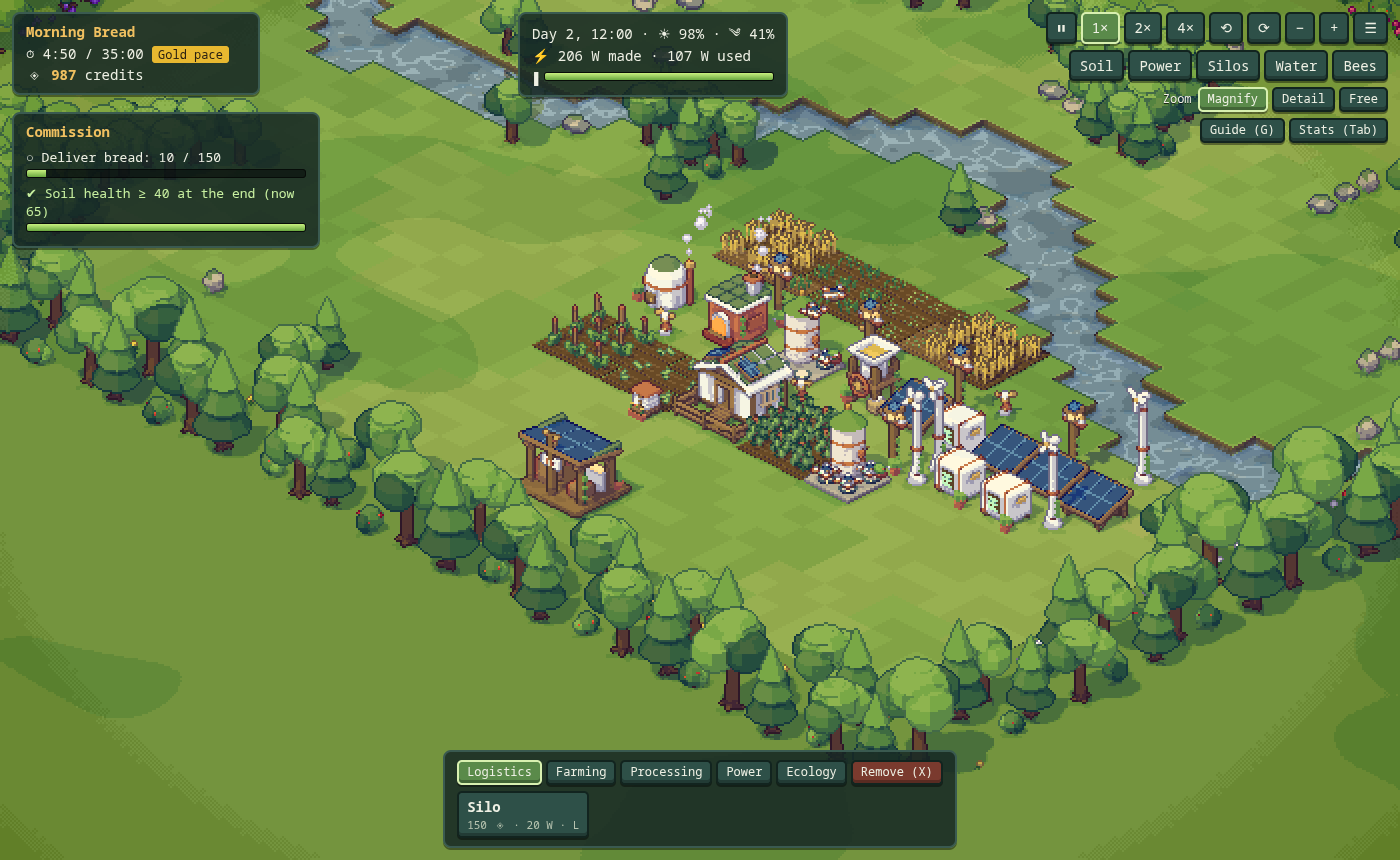
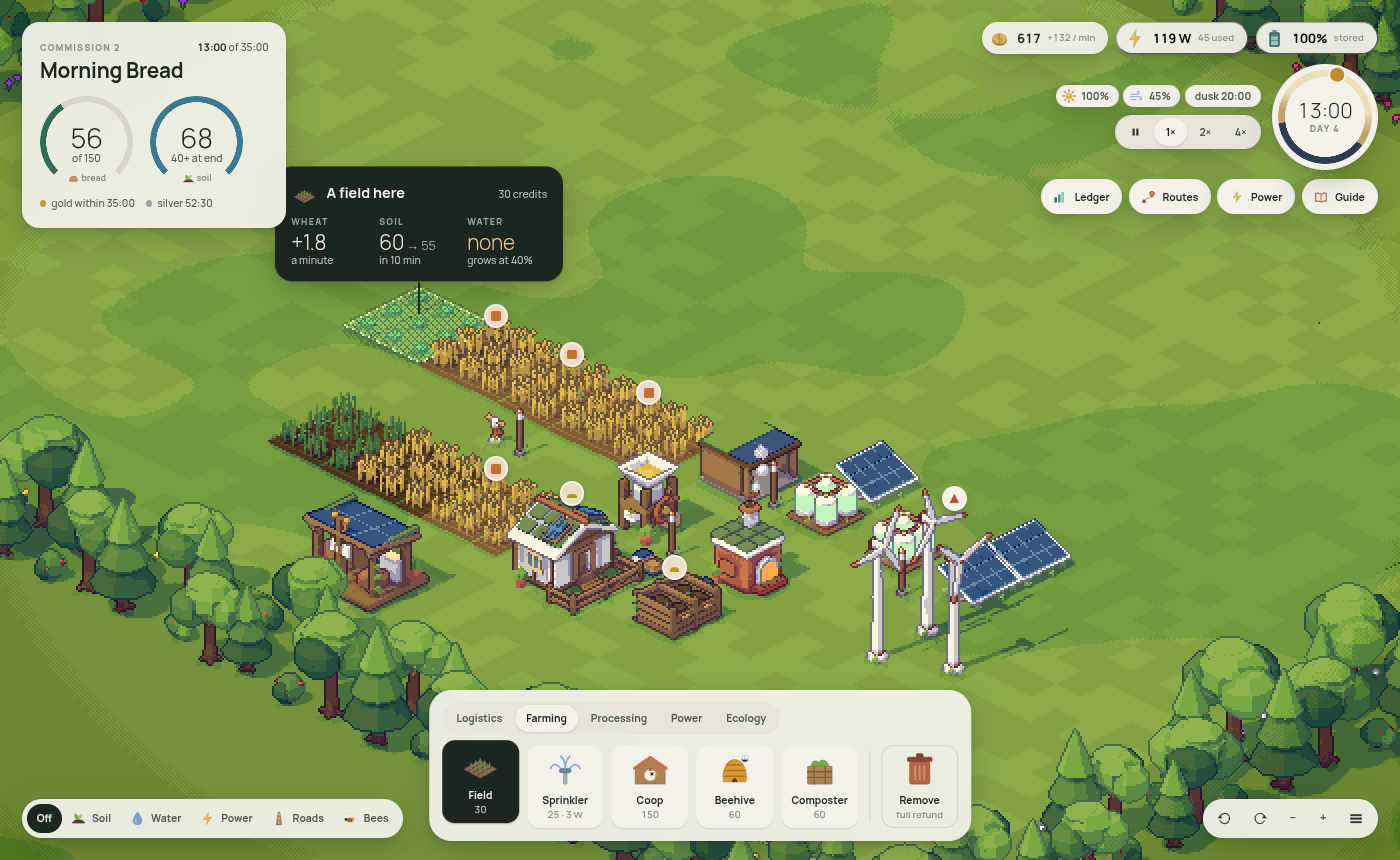
README: a screenshot of the new interface

diff --git a/README.md b/README.md
@@ -11,7 +11,7 @@ byproducts have to go somewhere, and the sun sets every few minutes. A 3D world 
 - Models: [`docs/ASSET_BRIEF.md`](docs/ASSET_BRIEF.md)
 - The interface's design system: [`src/ui/clearday/`](src/ui/clearday/README.md)
 
-![Morning Bread at noon: wheat and bean fields round two silos, a mill, coop, digester and bakery, solar panels, turbines and batteries](docs/screenshot.png)
+![Morning Bread at 13:00 on day 4: the commission card with its goals as gauges, the readouts and the dial, a field in hand with its placement card, and the dock](docs/screenshot.png)
 
 ```sh
 npm install
